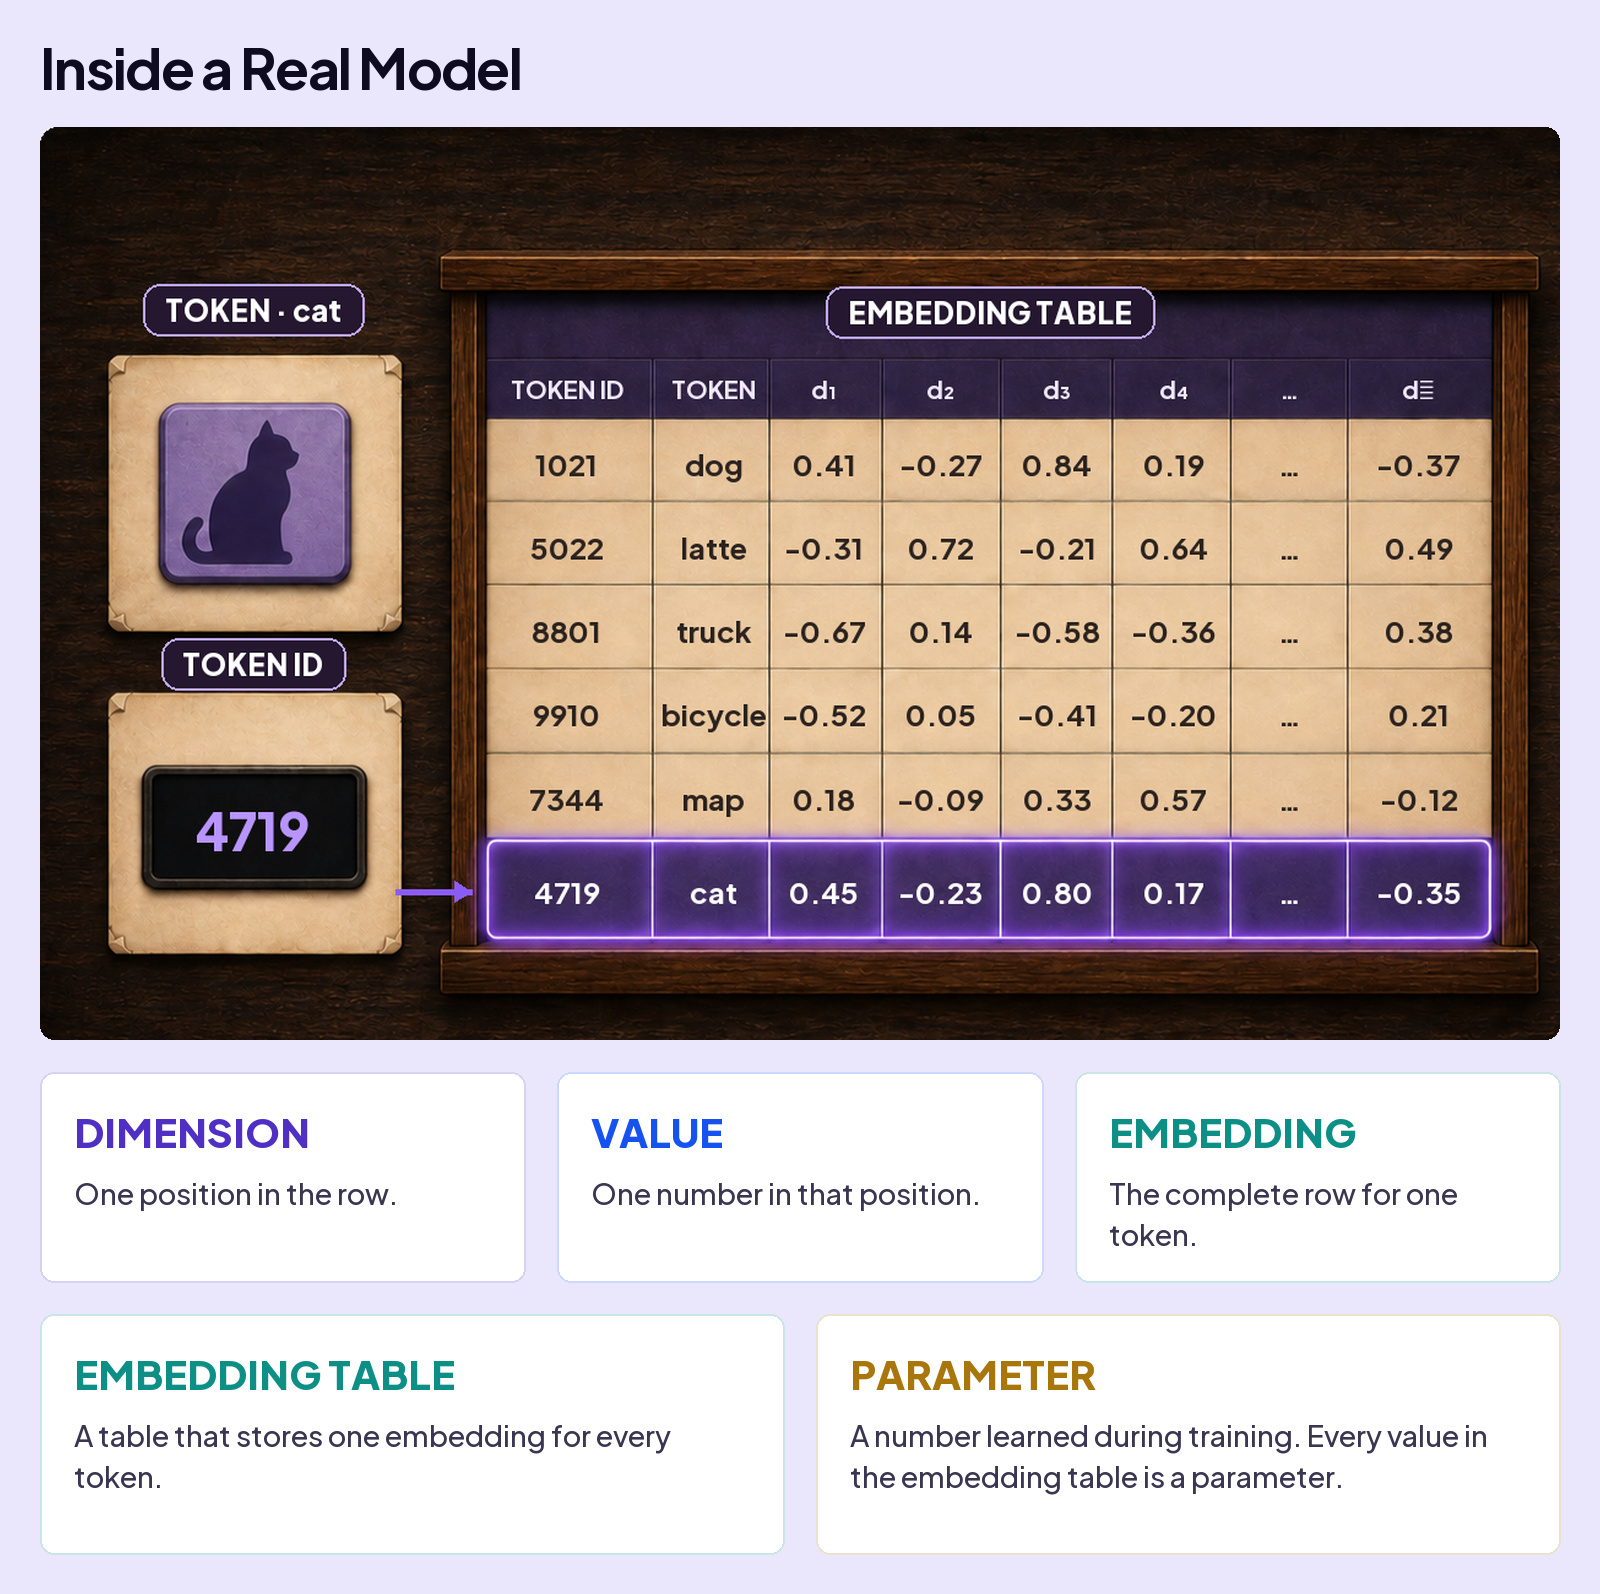
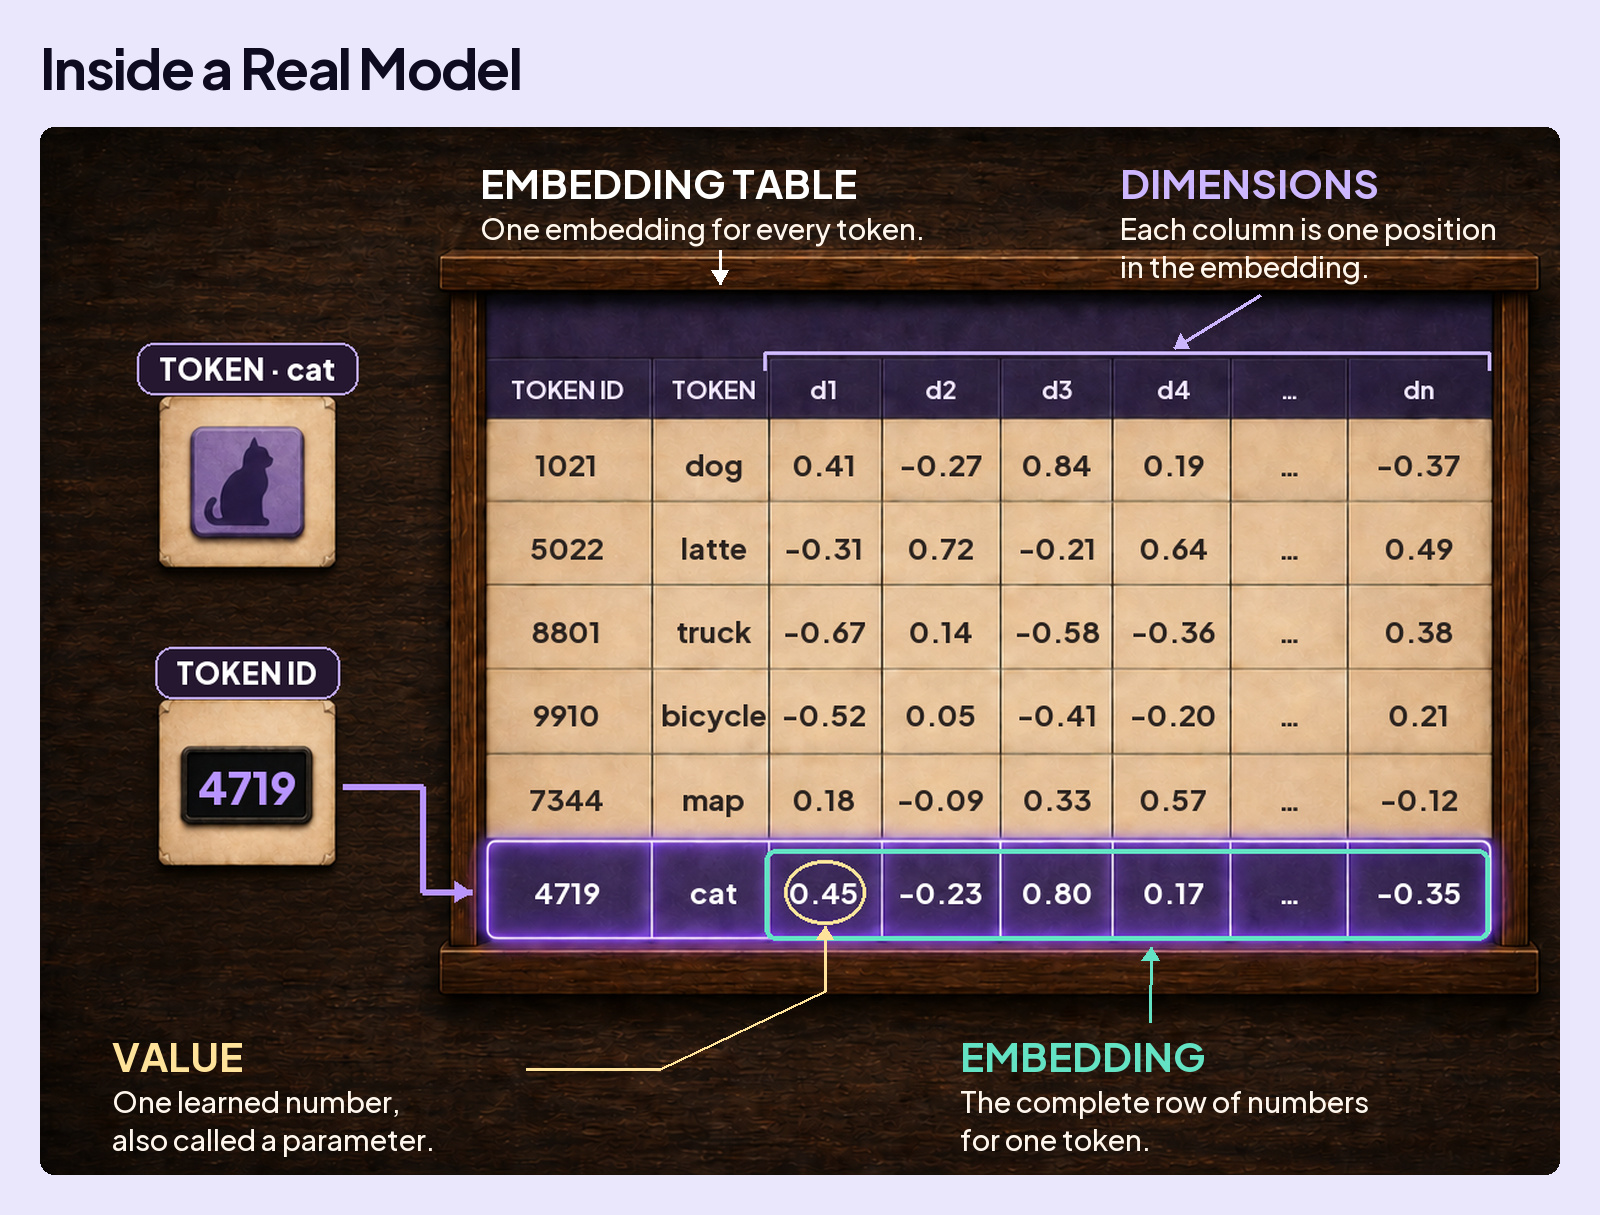
Embeddings inside-model board with compact definition cards; Engagement Trap stop board update
- Embeddings: re-render the inside-model board from the compact-cards
  illustration with integrated definitions; add annotation preview renderer
  and v1/v2 previews; alt text updated
- Engagement Trap: refreshed stop board (character update), previous version
  kept in the 2026-09-07 repair kit

Claude-Session: https://claude.ai/code/session_01Ddb5YL2nyiVNUf3oB5o38f

diff --git a/index.html b/index.html
@@ -6431,8 +6431,8 @@ function EmbeddingsSection(props) {
   E(SectionKicker, null, "Putting the Pieces Together"),
   E(BodyP, null, "What happens when you type “cat” into AI? Follow its token ID to the matching row in the embedding table."),
   E("img", {
-    src: "lessons/embeddings-inside-real-model-editorial.jpg?v=20260907key4",
-    alt: "Inside a Real Model. Token ID 4719 selects cat’s highlighted row in the embedding table. Dimension: one position in the row. Value: one number in that position. Embedding: the complete row for one token. Embedding Table: a table that stores one embedding for every token. Parameter: a number learned during training. Every value in the embedding table is a parameter.",
+    src: "lessons/embeddings-inside-real-model-editorial.jpg?v=20260907integrated1",
+    alt: "Inside a Real Model. Token cat has token ID 4719, which selects its highlighted row in the embedding table. The table stores one embedding for every token. Dimensions: the d1 through dn column headings mark positions in the embedding. Value: the circled 0.45 is one learned number, also called a parameter. Embedding: the outlined numerical row is the complete row of numbers for one token.",
     style: { display: "block", width: "100%", maxWidth: 880, margin: "12px auto 28px", borderRadius: 16 }
   }),
   /*#__PURE__*/React.createElement(SectionKicker, null, "Does every token get its own vector?"),

diff --git a/scripts/video/render_understand_ai_retrofit_review.py b/scripts/video/render_understand_ai_retrofit_review.py
@@ -2994,52 +2994,26 @@ def render_inference_teaching(source: Path, out_path: Path) -> None:
 
 
 def render_inside_real_model(source: Path, out_path: Path) -> None:
-    """Show the embedding lookup, ending at the selected row."""
-    image = Image.open(source).convert("RGB")
-    stage_top = 127
-    art_w, art_h = 1520, 855
-    lookup_width = 1240
-    lookup_height = 745
-    display_art_h = round(lookup_height * art_w / lookup_width)
-    cards_top = stage_top + display_art_h + 32
-    cards_h = 210
-    lower_top = cards_top + cards_h + 32
-    lower_h = 240
-    height = lower_top + lower_h + 40
-    canvas = Image.new("RGB", (WIDTH, height), FRAME)
-    draw = ImageDraw.Draw(canvas)
-    draw.rounded_rectangle((0, 0, WIDTH - 1, height - 1), radius=22, fill=FRAME)
-    draw_board_title(draw, "Inside a Real Model")
-    art = image.resize((art_w, art_h), Image.Resampling.LANCZOS)
-    canvas.paste(art, (40, stage_top), rounded_mask((art_w, art_h), 14))
+    """Integrate definitions into the approved embedding lookup illustration."""
+    # Keep the existing illustration and editable table labels at native scale.
+    scene = Image.open(source).convert("RGB").resize((1520, 855), Image.Resampling.LANCZOS)
+    draw = ImageDraw.Draw(scene)
 
-    label_font = face("heavy", 24)
+    def plaque(text, x, y):
+        font = face("heavy", 24)
+        width = draw.textlength(text, font=font) + 36
+        draw.rounded_rectangle((x - width / 2, y - 21, x + width / 2, y + 21), radius=14, fill="#24172f", outline="#bca6e8", width=2)
+        draw.text((x, y), text, font=font, fill=WHITE, anchor="mm")
 
-    def dark_label(text: str, cx: int, cy: int) -> None:
-        text_w = round(draw.textlength(text, font=label_font))
-        draw.rounded_rectangle(
-            (cx - text_w // 2 - 18, cy - 21, cx + text_w // 2 + 18, cy + 21),
-            radius=14,
-            fill="#24172f",
-            outline="#bca6e8",
-            width=2,
-        )
-        draw.text((cx, cy), text, font=label_font, fill=WHITE, anchor="mm")
-
-    dark_label("TOKEN · cat", 214, 276)
-    dark_label("TOKEN ID", 214, 565)
-    dark_label("EMBEDDING TABLE", 815, 278)
-
-    # Text stays editable and is enlarged with the lookup illustration below.
-    draw.text((214, 701), "4719", font=face("heavy", 42), fill="#b894ff", anchor="mm")
-    arrow(draw, (330, 751), (392, 751), "#8a5cf6", 5)
-
-    column_centers = (470, 590, 680, 775, 870, 965, 1060, 1165)
-    headers = ("TOKEN ID", "TOKEN", "d₁", "d₂", "d₃", "d₄", "…", "dₙ")
-    table_font = face("bold", 20)
-    for x, header in zip(column_centers, headers):
-        draw.text((x, 341), header, font=table_font, fill="#f2e8ff", anchor="mm")
-
+    plaque("TOKEN · cat", 169, 197)
+    plaque("TOKEN ID", 169, 445)
+    draw.text((169, 538), "4719", font=face("heavy", 36), fill="#b894ff", anchor="mm")
+    draw.line([(247, 538), (312, 538), (312, 624)], fill="#b894ff", width=5)
+    arrow(draw, (312, 624), (352, 624), "#b894ff", 5)
+    centers = (430, 550, 640, 735, 830, 925, 1020, 1125)
+    headers = ("TOKEN ID", "TOKEN", "d1", "d2", "d3", "d4", "…", "dn")
+    for x, header in zip(centers, headers):
+        draw.text((x, 214), header, font=face("bold", 20), fill="#f2e8ff", anchor="mm")
     rows = (
         ("1021", "dog", "0.41", "-0.27", "0.84", "0.19", "…", "-0.37"),
         ("5022", "latte", "-0.31", "0.72", "-0.21", "0.64", "…", "0.49"),
@@ -3048,57 +3022,45 @@ def render_inside_real_model(source: Path, out_path: Path) -> None:
         ("7344", "map", "0.18", "-0.09", "0.33", "0.57", "…", "-0.12"),
         ("4719", "cat", "0.45", "-0.23", "0.80", "0.17", "…", "-0.35"),
     )
-    row_centers = (402, 470, 538, 606, 675, 751)
-    table_font = face("bold", 24)
-    for row_index, (row, y) in enumerate(zip(rows, row_centers)):
-        fill = WHITE if row_index == len(rows) - 1 else "#2b231f"
-        for x, value in zip(column_centers, row):
-            draw.text((x, y), value, font=table_font, fill=fill, anchor="mm")
+    for row_index, (row, y) in enumerate(zip(rows, (275, 343, 411, 479, 548, 624))):
+        for x, text in zip(centers, row):
+            draw.text((x, y), text, font=face("bold", 24), fill=WHITE if row_index == 5 else "#2b231f", anchor="mm")
 
-    # Reframe the composed lookup to fill the area formerly shared with layers.
-    lookup = canvas.crop((40, stage_top, 40 + lookup_width, stage_top + lookup_height))
-    lookup = lookup.resize((art_w, display_art_h), Image.Resampling.LANCZOS)
-    draw.rectangle((40, stage_top, 1560, stage_top + display_art_h), fill=FRAME)
-    canvas.paste(lookup, (40, stage_top), rounded_mask(lookup.size, 14))
+    # The original purple glow marks the selected lookup row. The teal outline
+    # identifies only the numerical embedding, excluding the ID and token name.
+    # Group the numeric column headings rather than outlining one full column.
+    draw.line([(591, 198), (591, 184), (1182, 184), (1182, 198)], fill="#cbb6ff", width=3)
+    draw.rounded_rectangle((591, 589, 1182, 663), radius=9, outline="#63e3c4", width=4)
+    draw.ellipse((607, 598, 673, 650), outline="#ffe39a", width=3)
 
-    card_lefts = (40, 557, 1075)
-    card_widths = (485, 486, 485)
-    definitions = (
-        (
-            "DIMENSION",
-            "One position in the row.",
-            PURPLE,
-        ),
-        (
-            "VALUE",
-            "One number in that position.",
-            BLUE,
-        ),
-        (
-            "EMBEDDING",
-            "The complete row for one token.",
-            TEAL,
-        ),
-    )
-    for left, width, (heading, body, accent) in zip(card_lefts, card_widths, definitions):
-        draw.rounded_rectangle(
-            (left, cards_top, left + width, cards_top + cards_h),
-            radius=14,
-            fill=WHITE,
-            outline=mix(accent, 0.22),
-            width=2,
-        )
-        draw.text((left + 34, cards_top + 34), heading, font=face("heavy", 40), fill=accent, anchor="la")
-        draw_wrapped(draw, body, left + 34, cards_top + 102, width - 68, face("medium", 29), BODY)
+    scene = scene.crop((0, 0, 1240, 855))
+    scene = scene.resize((1520, 1048), Image.Resampling.LANCZOS)
+    canvas = Image.new("RGB", (1600, 1215), FRAME)
+    draw = ImageDraw.Draw(canvas)
+    draw_board_title(draw, "Inside a Real Model")
+    canvas.paste(scene, (40, 127), rounded_mask(scene.size, 14))
+    draw = ImageDraw.Draw(canvas)
 
-    lower_definitions = (
-        (40, "EMBEDDING TABLE", "A table that stores one embedding for every token.", TEAL),
-        (816, "PARAMETER", "A number learned during training. Every value in the embedding table is a parameter.", AMBER),
-    )
-    for left, heading, body, accent in lower_definitions:
-        draw.rounded_rectangle((left, lower_top, left + 744, lower_top + lower_h), radius=14, fill=WHITE, outline=mix(accent, 0.22), width=2)
-        draw.text((left + 34, lower_top + 34), heading, font=face("heavy", 40), fill=accent, anchor="la")
-        draw_wrapped(draw, body, left + 34, lower_top + 102, 676, face("medium", 29), BODY)
+    def point(x, y):
+        return (round(40 + x * 1520 / 1240), round(127 + y * 1048 / 855))
+
+    # Annotations live on the scene itself, adjacent to what they explain.
+    def annotation(x, y, heading, lines, color):
+        draw.text((x, y), heading, font=face("bold", 40), fill=color, anchor="la")
+        for i, line in enumerate(lines):
+            draw.text((x, y + 52 + i * 38), line, font=face("medium", 29), fill="#fff7ed", anchor="la")
+
+    annotation(480, 157, "EMBEDDING TABLE", ["One embedding for every token."], "#ffffff")
+    arrow(draw, (720, 250), (720, 284), "#ffffff", 3)
+    annotation(1120, 157, "DIMENSIONS", ["Each column is one position", "in the embedding."], "#cbb6ff")
+    arrow(draw, (1260, 295), point(925, 180), "#cbb6ff", 3)
+
+    annotation(112, 1030, "VALUE", ["One learned number,", "also called a parameter."], "#ffe39a")
+    draw.line([(526, 1069), (660, 1069), (point(640, 650)[0], 991)], fill="#ffe39a", width=3)
+    arrow(draw, (point(640, 650)[0], 991), point(640, 652), "#ffe39a", 3)
+    annotation(960, 1030, "EMBEDDING", ["The complete row of numbers", "for one token."], "#63e3c4")
+    arrow(draw, (1150, 1022), point(906, 669), "#63e3c4", 3)
+
     save(canvas, out_path)
 
 
@@ -3188,7 +3150,7 @@ def render_all() -> None:
     render_embedding_rows("Meaning Becomes an Ordered Row of Numbers", board_path("embeddings", "01-meaning-row-numbers.jpg"))
     render_embedding_rows("One New Dimension Separates Similar Meanings", board_path("embeddings", "02-new-dimension.jpg"), include_pepsi=True)
     render_embedding_comparison(board_path("embeddings", "02b-taste-test-to-ai.jpg"))
-    render_inside_real_model(teaching / "embedding-lookup-only.png", board_path("embeddings", "03-inside-model.jpg"))
+    render_inside_real_model(teaching / "embedding-lookup-compact-cards.png", board_path("embeddings", "03-inside-model.jpg"))
 
     # Transformer
     render_context_problems(

diff --git a/scripts/video/render_embedding_annotations_preview.py b/scripts/video/render_embedding_annotations_preview.py
@@ -1,0 +1,15 @@
+#!/usr/bin/env python3
+"""Render the approved embedding illustration to its review preview path."""
+
+import render_understand_ai_retrofit_review as r
+
+
+def render_preview():
+    source = r.OUT / "assets/teaching-illustrations/embedding-lookup-compact-cards.png"
+    out = r.OUT / "previews/embeddings-integrated-definitions-v2.jpg"
+    r.render_inside_real_model(source, out)
+    return out
+
+
+if __name__ == "__main__":
+    render_preview()

diff --git a/board-review-understand-ai-retrofit/assets/teaching-illustrations/embedding-lookup-compact-cards.prompt.md b/board-review-understand-ai-retrofit/assets/teaching-illustrations/embedding-lookup-compact-cards.prompt.md
@@ -1,0 +1,10 @@
+# Compact lookup cards — preview asset
+
+Mode: built-in imagegen edit.
+
+Source: `embedding-lookup-only.png`
+
+Use case: precise-object-edit.
+Input image: edit target, the blank wooden embedding-table illustration.
+Make ONLY the two separate cards on the far left 25 percent smaller in both width and height: (1) the upper cream card containing the purple cat-silhouette tile and (2) the lower cream card containing the black number-display screen. Scale their complete physical frames, cat tile and display screen proportionally, retaining each card's exact current center position. Fill the newly exposed area around each smaller card naturally with the existing dark wood background.
+Critical constraints: Leave the large wooden-framed table on the right EXACTLY unchanged, including its size, location, perspective, blank rows and columns, cream cells, dark-purple header area, and glowing purple final row. Preserve the dark wooden scene, camera view, colors, lighting, shadows, and overall 1672:941 aspect ratio. The two left cards must remain vertically stacked and clearly recognizable. Do not add text, numbers, labels, arrows, callouts, titles, a footer, a banner, additional objects, or people. This is the background asset; editable teaching labels will be reapplied separately.

diff --git a/lessons/embeddings.md b/lessons/embeddings.md
@@ -38,7 +38,7 @@ AI also uses numbers to represent meaning. Just as each drink has a numerical pr
 
 What happens when you type “cat” into AI? Follow its token ID to the matching row in the embedding table.
 
-![Inside a Real Model. Token ID 4719 selects cat’s highlighted row in the embedding table. Dimension: one position in the row. Value: one number in that position. Embedding: the complete row for one token. Embedding Table: a table that stores one embedding for every token. Parameter: a number learned during training. Every value in the embedding table is a parameter.](embeddings-inside-real-model-editorial.jpg)
+![Inside a Real Model. Token cat has token ID 4719, which selects its highlighted row in the embedding table. The table stores one embedding for every token. Dimensions: the d1 through dn column headings mark positions in the embedding. Value: the circled 0.45 is one learned number, also called a parameter. Embedding: the outlined numerical row is the complete row of numbers for one token.](embeddings-inside-real-model-editorial.jpg)
 
 ## Does every token get its own vector?
 
